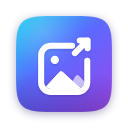
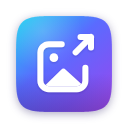
Brand: one drawing for all three cuts
Master, Compact and Micro now share the same elements in the same place
(frame, sun, mountain, arrow); only the stroke weight (64/88/112) and
the finish change with size.

- Micro keeps the sun and mountain again, so the 16 px icon still reads
  as an image instead of a generic "open externally" glyph, and uses a
  simple three-stop gradient without highlight, shade or edge.
- Master drops the translucent second mountain, which only existed in
  that cut.
- Fixes the previous commit, where the wider frame opening meant for
  Micro was applied to Compact.
- docs/brand/README.md and build-icons.mjs agree on the size ranges
  (Master from 64 px, exported at 128 px and up).

Claude-Session: https://claude.ai/code/session_014NEdMEBMfdjsfg6vKgeYnq

Changed region(s): [[0.2812, 0.25, 0.75, 0.75], [0.4375, 0.5625, 0.4688, 0.5938], [0.4062, 0.5938, 0.4375, 0.625]]

diff --git a/docs/brand/README.md b/docs/brand/README.md
@@ -10,13 +10,13 @@
 ## Mark
 
 A single continuous image frame that opens into an export arrow, on a cyan → indigo → violet tile.
-The drawing changes with size instead of shrinking one file:
+Every cut has the same elements in the same place: frame, sun, mountain and arrow. Only the stroke weight and the finish change with size (optical sizing), so small icons stay crisp without changing the mark:
 
-| Cut | File | Use | Content |
-|---|---|---|---|
-| Master | `logo.svg` | 64 px and up | Frame, sun, two mountains (one translucent), arrow, soft glyph shadow |
-| Compact | `logo-compact.svg` | 24–63 px (32 and 48 px icons) | Frame, sun, one solid mountain, arrow; no translucency or shadow |
-| Micro | `logo-micro.svg` | Below 24 px (16 px icon) | Frame and arrow only, heaviest strokes, wide opening between them |
+| Cut | File | Use | Stroke | Finish |
+|---|---|---|---|---|
+| Master | `logo.svg` | 64 px and up (exported at 128–1024 px) | 64 | Four-stop gradient, highlight, shade, inner edge, soft glyph shadow |
+| Compact | `logo-compact.svg` | 24–63 px (32 and 48 px icons) | 88 | Four-stop gradient, lighter highlight and shade, no shadow |
+| Micro | `logo-micro.svg` | Below 24 px (16 px icon) | 112 | Three-stop gradient, no effects |
 
 `npm run build:icons` renders every PNG in `icons/` from these files. The 128 px `icon128.png` follows the Chrome Web Store layout: 96 px artwork with 16 px of transparent padding.
 
@@ -40,4 +40,5 @@ The drawing changes with size instead of shrinking one file:
 
 - Recolour, stretch or rotate the tile.
 - Put the mark inside another rounded container or add an outline.
+- Add or remove elements in one cut only: all cuts share one drawing.
 - Use the Master cut at 16/32 px, or the Micro cut above 24 px.
